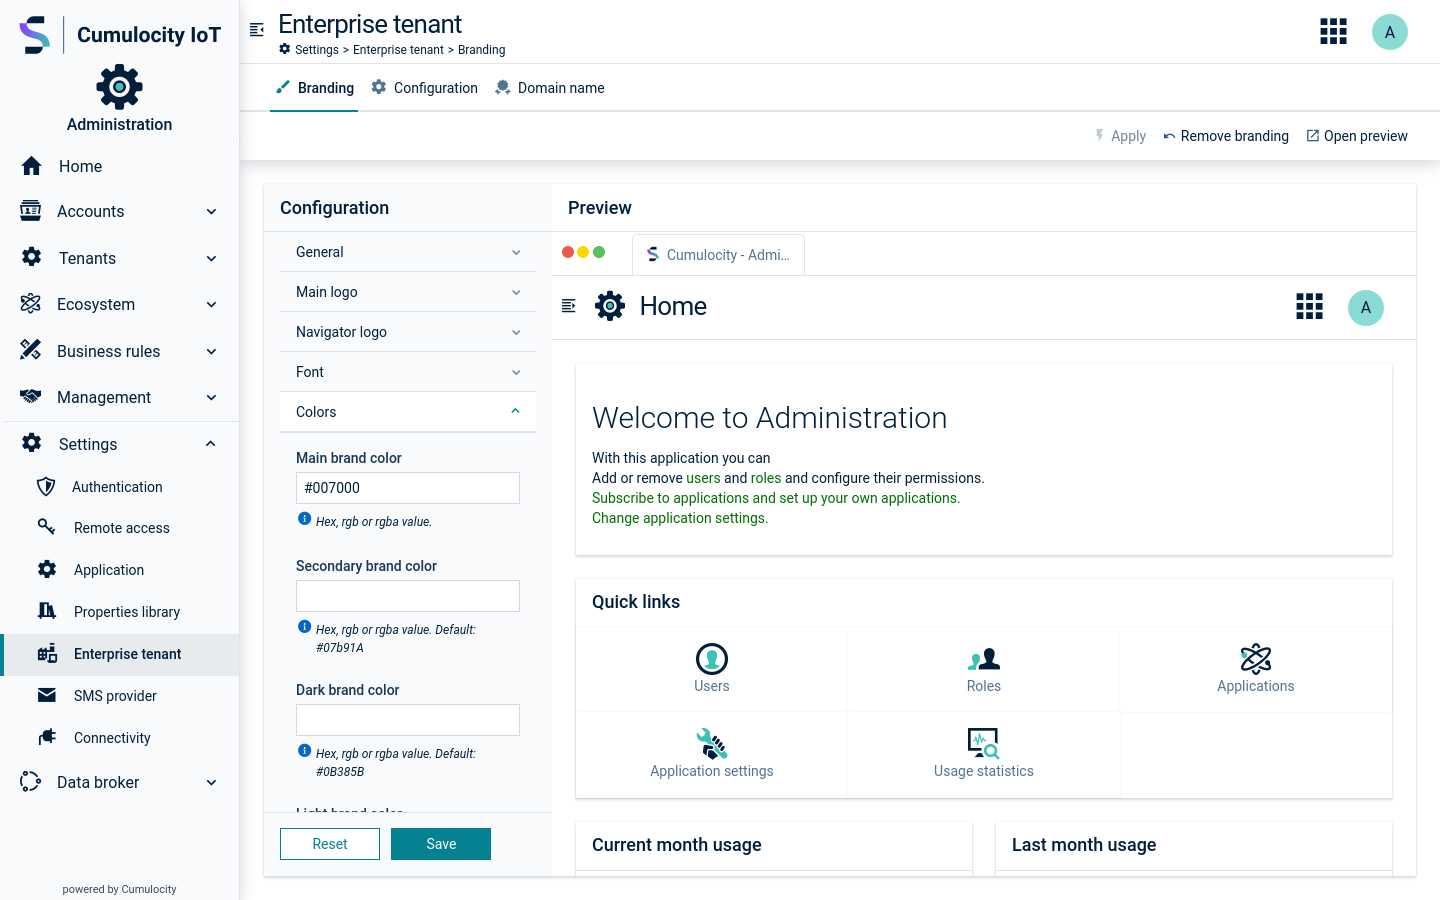
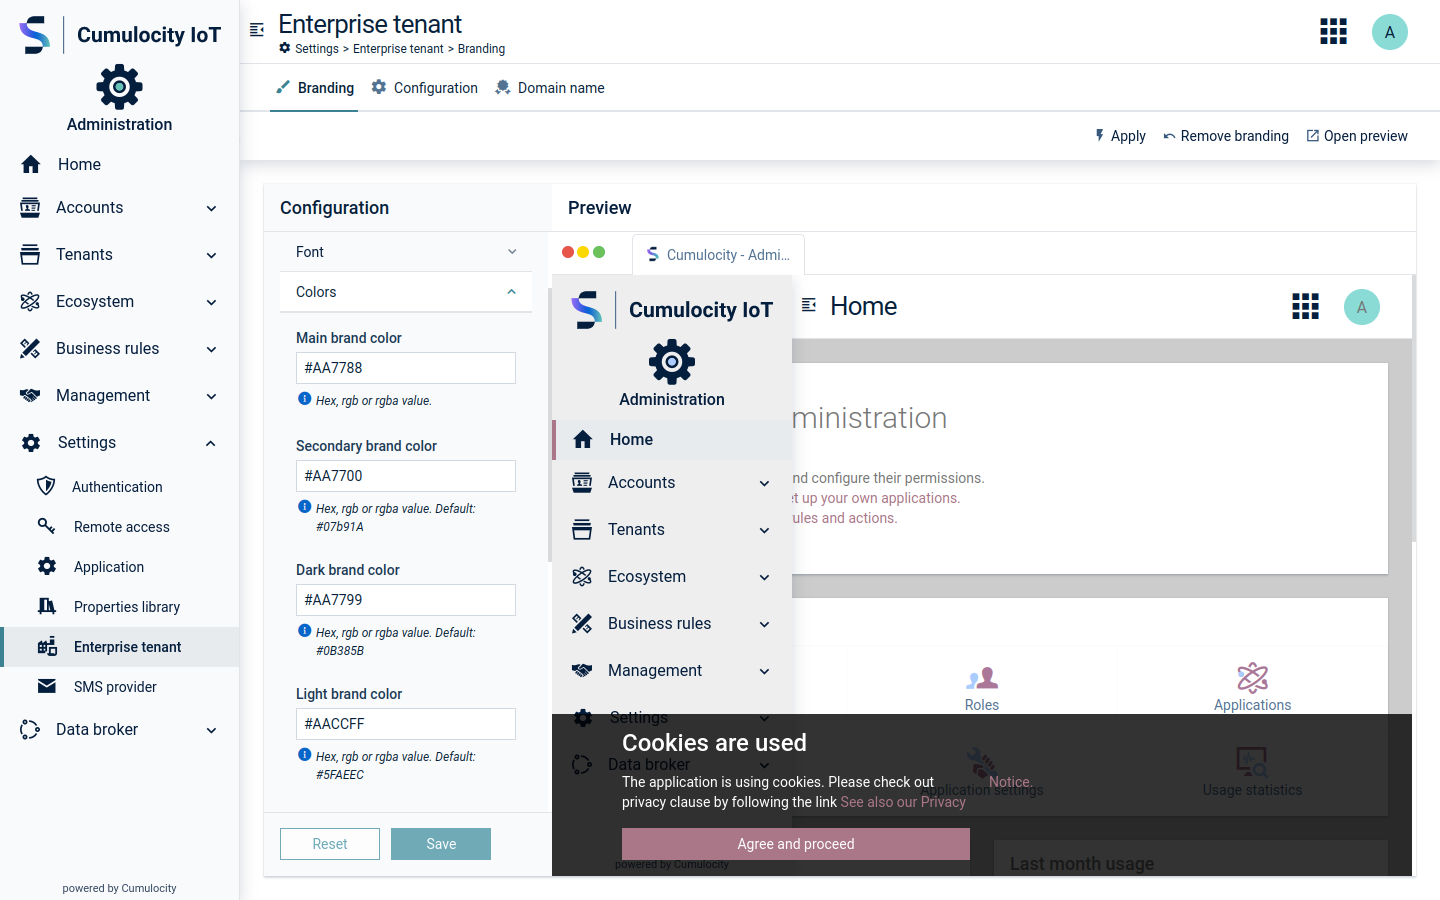
MTM-46158-Add-requirements-for-platform-customization-features * added requirements for branding * replaced branding example screenshots

diff --git a/content/users-guide/enterprise-tenant-bundle/customization.md b/content/users-guide/enterprise-tenant-bundle/customization.md
@@ -15,6 +15,22 @@ Click **{{< enterprise-tenant >}}** in the **Settings** menu to access these set
 <a name="configuration"></a>
 ### Configuration
 
+{{< c8y-admon-req >}}
+APPLICATION ACCESS:
+
+User must have access to administration application of {{<enterprise-tenant>}}. For details on how to enable {{<enterprise-tenant>}} see {{< product-c8y-iot >}} Core-Operations guide.
+
+ROLES & PERMISSIONS:
+
+* To view settings: READ permission for the "Options management" permission type.
+* To manage (create, edit, update) all existing settings: ADMIN permission for the "Options management" permission type.
+
+
+On tenant creation, there are default roles available that can be used as a sample configuration for the above-mentioned permissions:
+* Tenant Manager - Can manage tenant-wide configurations like applications, tenant options and retention rules
+
+{{< /c8y-admon-req >}}
+
 {{< c8y-admon-info >}}
 In some of the properties you can configure email templates for various purposes. Be aware that the corresponding emails are send with "text/html" as content type.
 {{< /c8y-admon-info >}}
@@ -23,14 +39,14 @@ The following placeholders can be found in the **Configuration** tab:
 
 |Placeholder|Description|
 |:---|:---|
-|{host}|The value of this placeholder is "https://" + "&lt;&lt;tenantId&gt;&gt;" + "&lt;&lt;base-domain&gt;&gt;". For example, if "tenantId" is auto-generated, the host will be `https://t12345678.{{< domain-c8y >}}`.
-|{tenant-domain}|This is the location in which a tenant can be accessed. It is equal to "https://" + "&lt;&lt;tenantDomainName&gt;&gt;". For example, {tenant-domain} can be `https://myTenant.{{< domain-c8y >}}`. In case of an {{< enterprise-tenant >}}, the {tenantDomain} placeholders can have different values. An example tenant domain is `https://myTenant.myhost.com`.
-|{token}|An automatically generated system token for password reset purposes. When a user requests a password reset, a new random token will be generated. This token will be associated only with the particular user and will allow for a single password reset action. The standard way of using this placeholder is along with the {tenant-domain} property as "{tenant-domain}?token={token}".
-|{email}|Will be replaced with the email address of the recipient user as stored in the user settings. Some views in the UI recognize this parameter and prefill the respective field with this value, for example, during the process of password reset.
-|{username}|Will be replaced with the value of the username property specified in the user configuration, see [User options and settings](/users-guide/getting-started/#user-settings).
-|{binaryId}|Will be replaced with the respective `binaryId` for the binary artefact to be used in the download link.
-|{exportApi}|Will be replaced with the respective API in which the error occurred.
-|{size}|Will be replaced with the storage usage percentage value.
+|{host}|The value of this placeholder is "https://" + "&lt;&lt;tenantId&gt;&gt;" + "&lt;&lt;base-domain&gt;&gt;". For example, if "tenantId" is auto-generated, the host will be `https://t12345678.{{< domain-c8y >}}`.|
+|{tenant-domain}|This is the location in which a tenant can be accessed. It is equal to "https://" + "&lt;&lt;tenantDomainName&gt;&gt;". For example, {tenant-domain} can be `https://myTenant.{{< domain-c8y >}}`. In case of an {{< enterprise-tenant >}}, the {tenantDomain} placeholders can have different values. An example tenant domain is `https://myTenant.myhost.com`.|
+|{token}|An automatically generated system token for password reset purposes. When a user requests a password reset, a new random token will be generated. This token will be associated only with the particular user and will allow for a single password reset action. The standard way of using this placeholder is along with the {tenant-domain} property as "{tenant-domain}?token={token}".|
+|{email}|Will be replaced with the email address of the recipient user as stored in the user settings. Some views in the UI recognize this parameter and prefill the respective field with this value, for example, during the process of password reset.|
+|{username}|Will be replaced with the value of the username property specified in the user configuration, see [User options and settings](/users-guide/getting-started/#user-settings).|
+|{binaryId}|Will be replaced with the respective `binaryId` for the binary artefact to be used in the download link.|
+|{exportApi}|Will be replaced with the respective API in which the error occurred.|
+|{size}|Will be replaced with the storage usage percentage value.|
 
 {{< c8y-admon-info >}}
 The above mentioned placeholders might not be applicable to certain templates. While preparing content, note the information provided in the UI.
@@ -94,6 +110,25 @@ Some additional configuration settings can be specified globally in the {{< mana
 ### Branding
 
 With the Branding feature, you can fully customize the look of your tenant to your own preferences.
+
+{{< c8y-admon-req >}}
+APPLICATION ACCESS:
+
+Branding feature comes as default with {{<enterprise-tenant>}} and is available from within Administration application.
+
+Branding functionality is enabled by subscribing to the "feature-branding" application.
+
+ROLES & PERMISSIONS:
+
+* To manage branding configuration: 
+  * READ, ADMIN, CREATE for "Inventory" permission type;
+  * READ, ADMIN for "Options management" permission type;
+* To apply branding configuration: READ, ADMIN for "Application management" permission type.
+
+On tenant creation, there are default roles available that can be used as a sample configuration for the above-mentioned permissions:
+* Tenant Manager - Can manage tenant-wide configurations like applications, tenant options and retention rules
+
+{{< /c8y-admon-req >}}
 
 In the **Branding** tab, you can configure various parameters like logos, colors  and font types used throughout the platform.
 
@@ -194,6 +229,25 @@ The following parameters can be specified:
 
 <a name="domain-name"></a>
 ### Domain name
+
+{{< c8y-admon-req >}}
+APPLICATION ACCESS:
+
+Domain management feature comes as default with {{<enterprise-tenant>}} tenant and is available from within Administration application.
+
+Domain management feature is enabled by subscribing to the "sslmanagement" microservice.
+
+ROLES & PERMISSIONS:
+
+* To upload certificate:
+    * READ, ADMIN for "Inventory" permission type;
+    * READ, ADMIN for "Options management" permission type;
+    * READ, ADMIN for "Application management" permission type;
+
+On tenant creation, there are default roles available that can be used as a sample configuration for the above-mentioned permissions:
+* Tenant Manager - Can manage tenant-wide configurations like applications, tenant options and retention rules
+
+{{< /c8y-admon-req >}}
 
 A key feature of the {{< enterprise-tenant >}} is the ability to operate the {{< product-c8y-iot >}} platform using a custom domain name. This
 means that you can configure the platform to serve you and your customers using a host name of choice, for example *.iot.mycompany.com rather than the default URL of {{< product-c8y-iot >}}. In addition you'll be able to create subtenants
